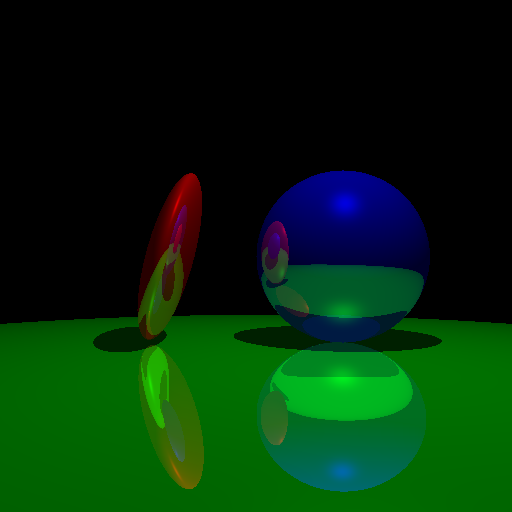
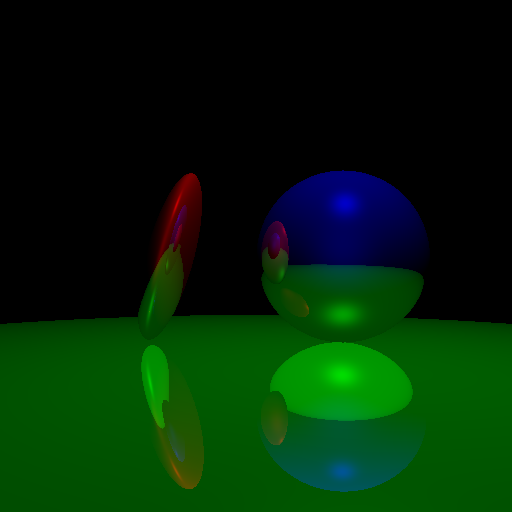
Moved computation of reflected energy out of the `Light` objects and one level above.

Changed region(s): [[0.4688, 0.3125, 0.875, 0.8438], [0.1875, 0.3438, 0.4062, 0.875]]

diff --git a/src/scene/mod.rs b/src/scene/mod.rs
@@ -35,20 +35,26 @@ impl Scene {
         let p = intersection.point + 0.0002 * intersection.normal;
         let mut total_energy = Color::black();
         for light in self.lights.iter() {
-            total_energy += light.get_energy(&self, &p, &intersection.eye_dir, &intersection.normal);
+            let (light_dir, light_energy) = light.get_energy(&self, &p, &intersection.eye_dir, &intersection.normal);
+            total_energy += light_energy * lambert(&light_dir, &intersection.normal, &light_energy);
+            total_energy += phong(60., &intersection.eye_dir, &light_dir, &intersection.normal) * light_energy;
         }
         total_energy
     }
 }
 
+fn lambert(light_dir: &Vector3, normal: &Vector3, color: &Color) -> Color {
+    light_dir.dot(normal) * color
+}
+
 fn phong(power: f32, eye_dir: &Vector3, light_dir: &Vector3, normal: &Vector3) -> f32 {
     let h = (eye_dir.norm() + light_dir.norm()).norm();
-    let mDotH = normal.dot(&h);
+    let m_dot_h = normal.dot(&h);
 
-    if mDotH < 0. {
+    if m_dot_h < 0. {
         0.
     } else {
-        mDotH.powf(power)
+        m_dot_h.powf(power)
     }
 }
 
@@ -106,7 +112,7 @@ pub struct Intersection {
 }
 
 pub trait LightSource {
-    fn get_energy(&self, scene: &Scene, point: &Point3, eye_dir: &Vector3, normal: &Vector3) -> Color;
+    fn get_energy(&self, scene: &Scene, point: &Point3, eye_dir: &Vector3, normal: &Vector3) -> (Vector3, Color);
 }
 
 /**
@@ -125,14 +131,15 @@ impl PointLight {
 }
 
 impl LightSource for PointLight {
-    fn get_energy(&self, scene: &Scene, point: &Point3, eye_dir: &Vector3, normal: &Vector3) -> Color {
+    fn get_energy(&self, scene: &Scene, point: &Point3, eye_dir: &Vector3, normal: &Vector3) -> (Vector3, Color) {
         let dir_to_light = (self.pos - point).norm();
-        let ray = Ray::new(&point, &dir_to_light);
+        /*let ray = Ray::new(&point, &dir_to_light);
         let total_energy = match scene.intersect(&ray) {
             Some(_) => Color::black(),
             None => dir_to_light.dot(normal) * self.color,
         };
-        total_energy + phong(60., eye_dir, &dir_to_light, normal) * self.color
+        total_energy + phong(60., eye_dir, &dir_to_light, normal) * self.color*/
+        (dir_to_light, self.color)
     }
 }
 
@@ -149,7 +156,7 @@ impl AmbientLight {
 }
 
 impl LightSource for AmbientLight {
-    fn get_energy(&self, _: &Scene, _: &Point3, _: &Vector3, _: &Vector3) -> Color {
-        self.color
+    fn get_energy(&self, _: &Scene, _: &Point3, _: &Vector3, normal: &Vector3) -> (Vector3, Color) {
+        (*normal, self.color)
     }
 }
